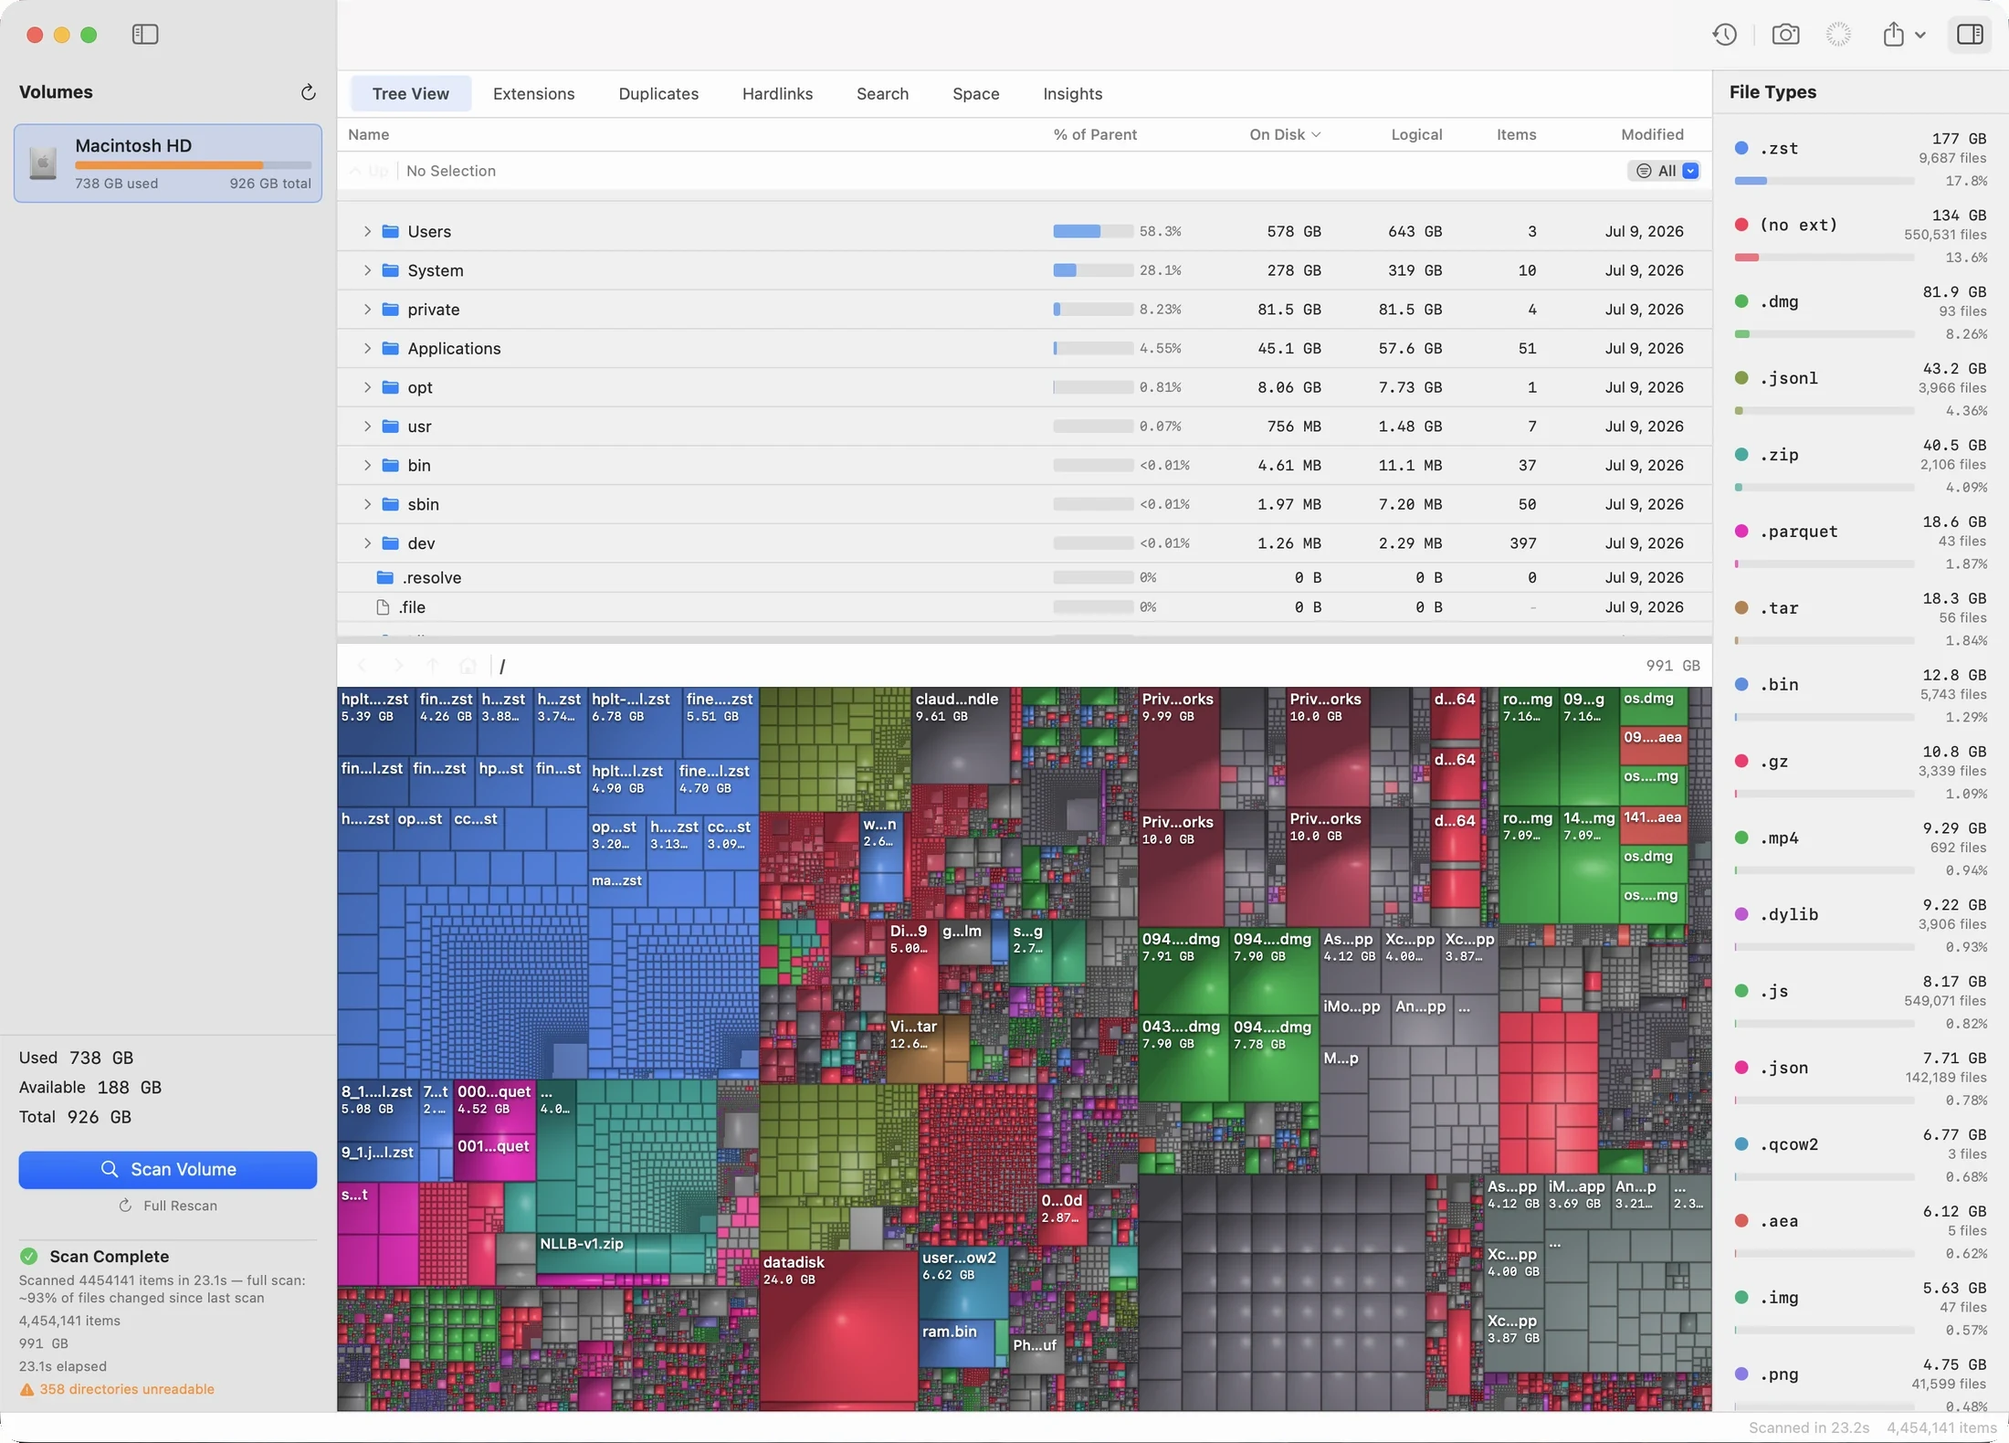
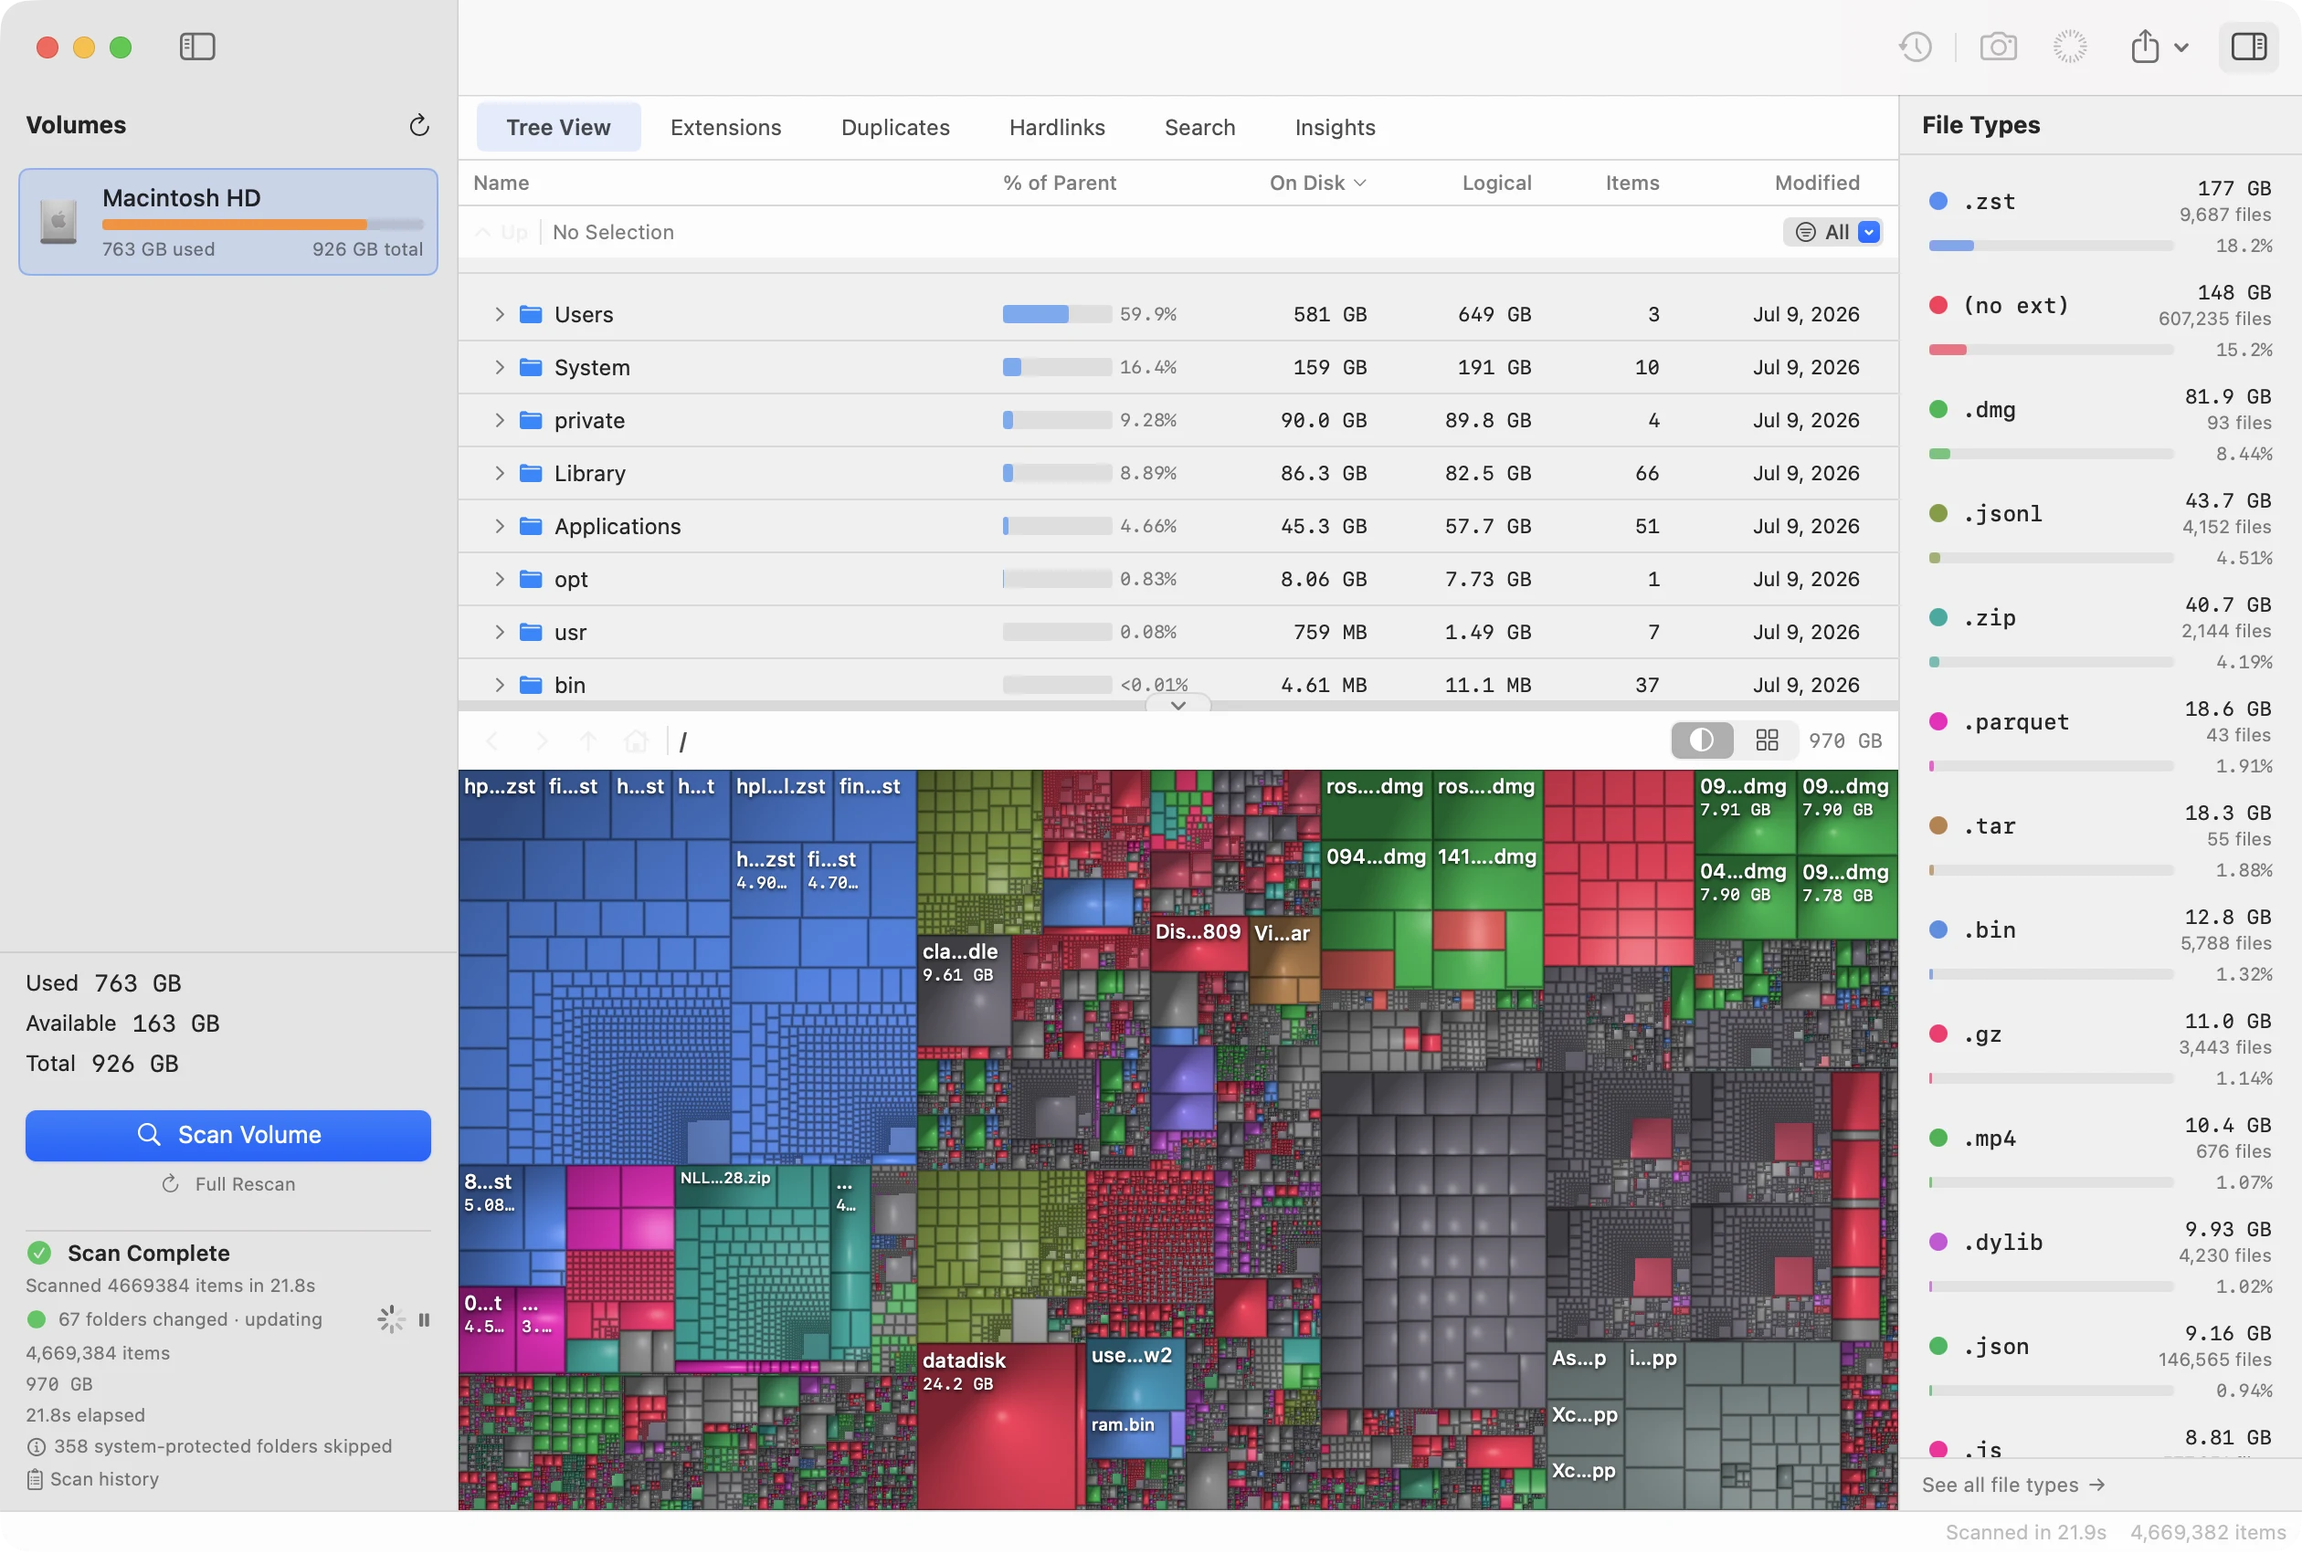
Retake the showcase screenshot from the current app, for real this time
The old shot was three weeks and one feature-era stale, and its corners
had been flattened onto black. This one is a true ScreenCaptureKit capture
of the running app after a fresh full-volume scan: real window chrome,
the Metal treemap in its actual pixels, the tree table, the File Types
panel, and the living view visibly mid-update in the sidebar (67 folders
changed - updating), which is the feature demonstrating itself.

cacheDisplay had to be abandoned for this: on current macOS the SwiftUI
table renders nothing into it, and no amount of appearance forcing brings
it back. ScreenCaptureKit from inside the app (one-time Screen Recording
grant) captures the composited truth.

Captions updated to the new scan everywhere: 4,669,384 files in 21.8
seconds - which also settles tonight's performance question: the scanner
is a couple of seconds FASTER than the July baseline at 5% more files.

diff --git a/docs/index.html b/docs/index.html
@@ -455,14 +455,14 @@ footer{border-top:1px solid var(--line);padding:32px 0 44px;background:var(--pap
 <figure class="hero-shot hero-bleed rv" style="--d:.3s">
     <img src="assets/dirwiz-showcase.webp"
          alt="DirWiz after scanning a Mac boot volume: a sortable file tree above a colorful cushion treemap, with a file type legend on the right"
-         width="2200" height="1580">
-    <figcaption>An actual scan of this Mac’s boot volume - 4,454,141 files in 23 seconds.
+         width="2520" height="1702">
+    <figcaption>An actual scan of this Mac’s boot volume - 4,669,384 files in 21.8 seconds.
     Every rectangle is sized by the blocks it occupies on disk, not its logical length.</figcaption>
   </figure>
 
 <div class="stats" aria-label="Technical highlights">
   <div class="wrap">
-    <div class="stat rv"><div class="k">4.45M items · 23 s</div><div class="v">Cold scan of a full 926 GB boot volume, via <span class="mono">getattrlistbulk</span> bulk kernel reads.</div></div>
+    <div class="stat rv"><div class="k">4.67M items · 22 s</div><div class="v">Cold scan of a full 926 GB boot volume, via <span class="mono">getattrlistbulk</span> bulk kernel reads.</div></div>
     <div class="stat rv" style="--d:.06s"><div class="k">on-disk truth</div><div class="v">Sizes are allocated blocks, not logical lengths. Sparse files don’t lie.</div></div>
     <div class="stat rv" style="--d:.12s"><div class="k">0 dependencies</div><div class="v">Native Swift and Metal. Nothing else ships in the bundle.</div></div>
     <div class="stat rv" style="--d:.18s"><div class="k">Trash-only</div><div class="v">Every removal goes through the Trash. A delete code path doesn’t exist.</div></div>

diff --git a/README.md b/README.md
@@ -23,7 +23,7 @@ macOS disk usage analyzer with a Metal cushion treemap, fast filesystem scans, d
 
 ![DirWiz tree table and Metal treemap after scanning a Mac boot volume](docs/assets/dirwiz-showcase.webp)
 
-<p align="center"><em>An actual scan of a Mac boot volume - 4,454,141 files in 23 seconds. Every rectangle is sized by the blocks it occupies on disk, not its logical length.</em></p>
+<p align="center"><em>An actual scan of a Mac boot volume - 4,669,384 files in 21.8 seconds. Every rectangle is sized by the blocks it occupies on disk, not its logical length.</em></p>
 
 ## What It Does
 
